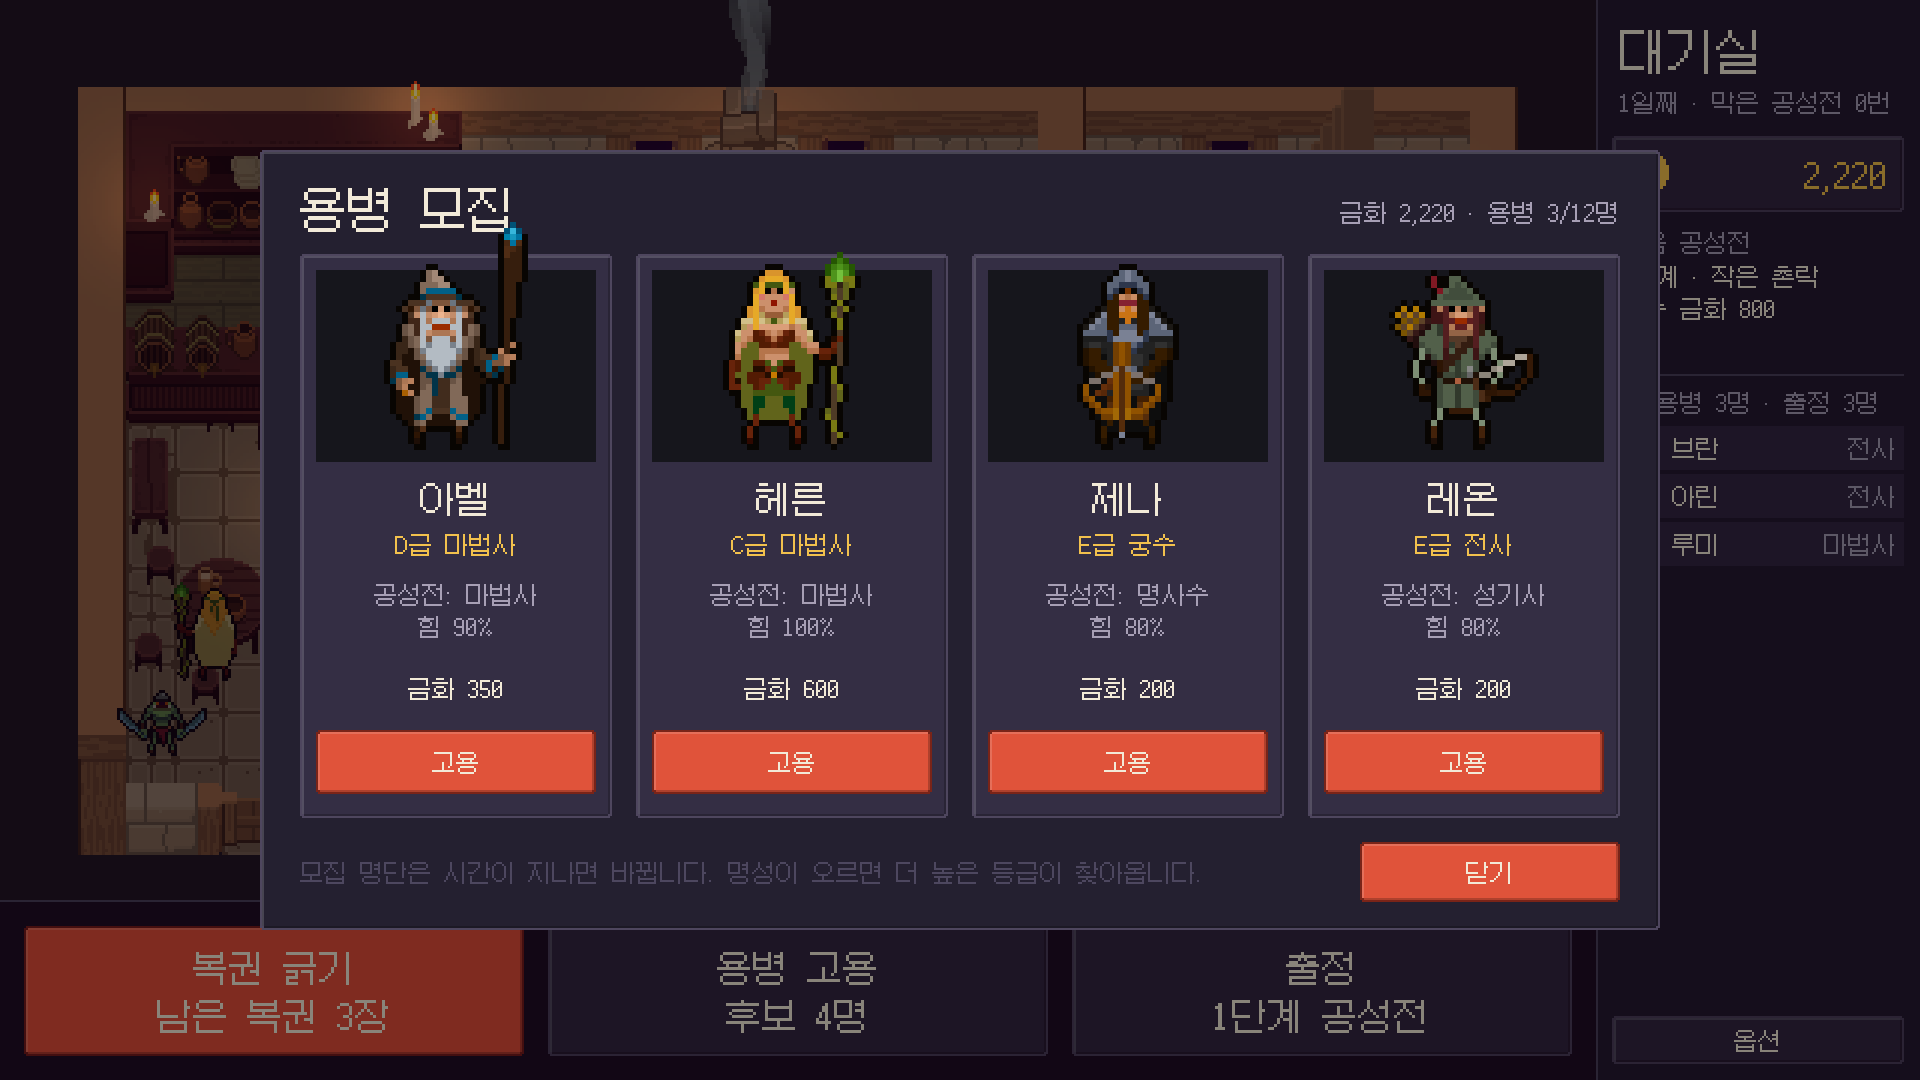
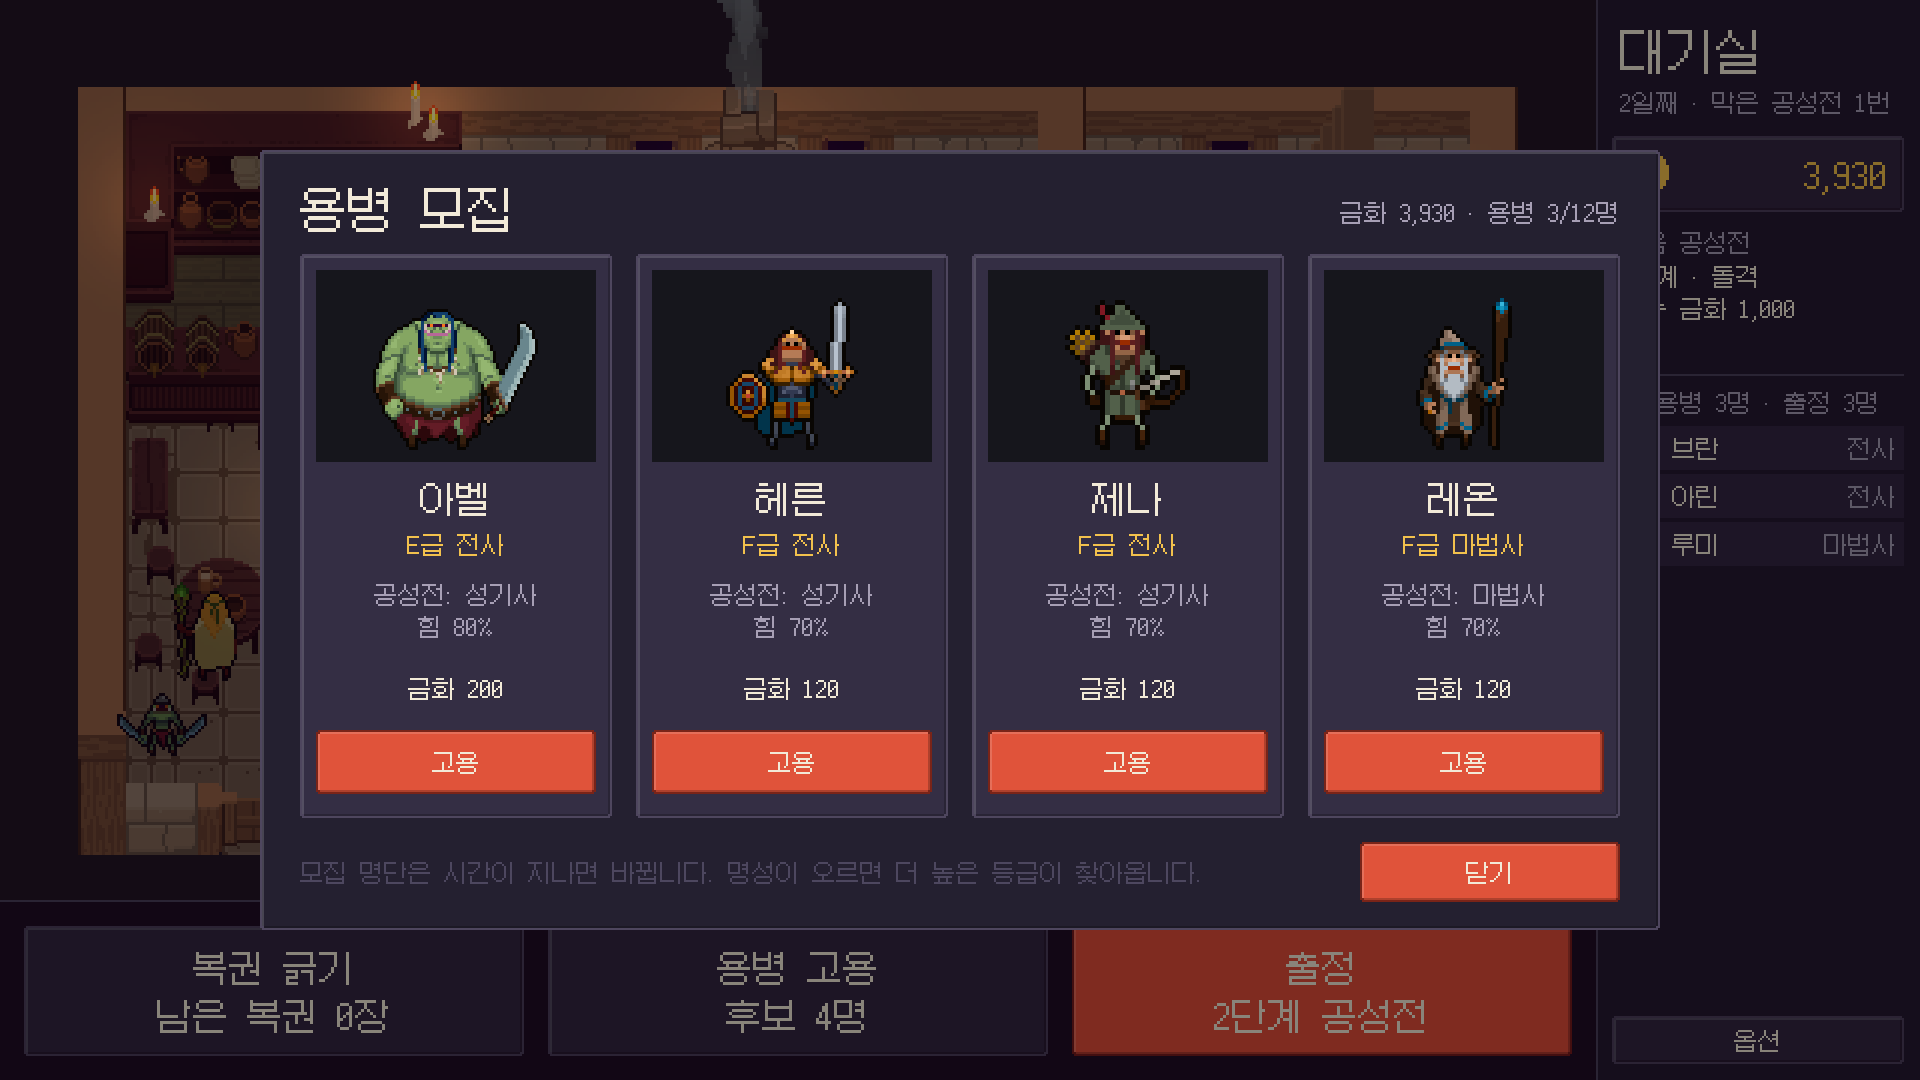
DOC : 대기실 일지의 고용 그림 교체, 작업 91에 초상 수정 기록
대기실 일지 글의 고용 그림(lobby-hire.png)은 초상이 카드 밖으로 나와 있던
캡처였다. 고친 뒤의 캡처로 바꾸고 글에 "갱신(11월 20일)" 한 줄을 더함:
처음에는 모든 그림을 6배로 그렸고, 지금은 카드의 어두운 칸 안에 들어가는
가장 큰 정수 배율로 선다.

작업 91: 수정 내용(사용자 제보, 정수 배율로 칸에 맞춤, 테스트 8건,
EditMode 719/719)과 게임 저장소 커밋 282d540, ac0c3cf를 더함.

diff --git a/_posts/2026-11-19-waiting-room.md b/_posts/2026-11-19-waiting-room.md
@@ -55,6 +55,8 @@ tasks: [91]
 
 고용은 이전 용병단의 모집 시장을 그대로 씁니다. 카드에는 그 용병이 공성전에서 무엇이 되는지와 힘을 더했습니다.
 
+갱신(11월 20일): 처음에는 모든 그림을 6배로 그려서 오거·마법사 그림이 카드 밖으로 나왔습니다. 지금은 그림이 카드의 어두운 칸 안에, 칸에 들어가는 가장 큰 정수 배율(오거 3배, 기사 4배, 오크 6배)로 섭니다. 위 그림은 고친 뒤입니다.
+
 - 전사는 성기사, 궁수는 명사수, 마법사는 마법사가 됩니다.
 - 힘은 등급으로 정합니다. F급 70%에서 등급마다 10%씩 오릅니다.
 - 다치지 않은 용병이 6명까지 출정합니다.
